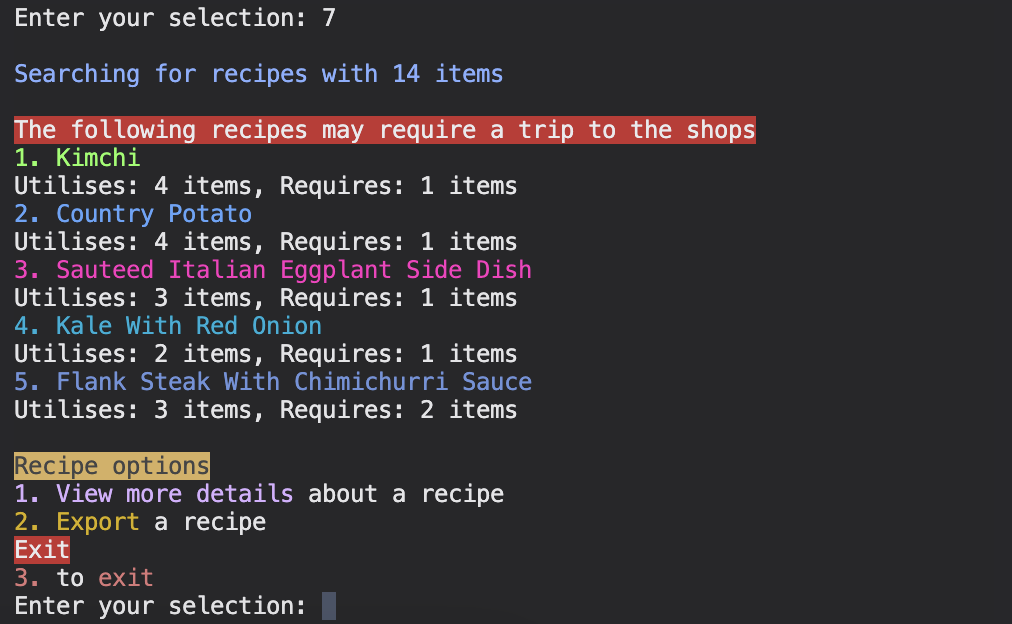
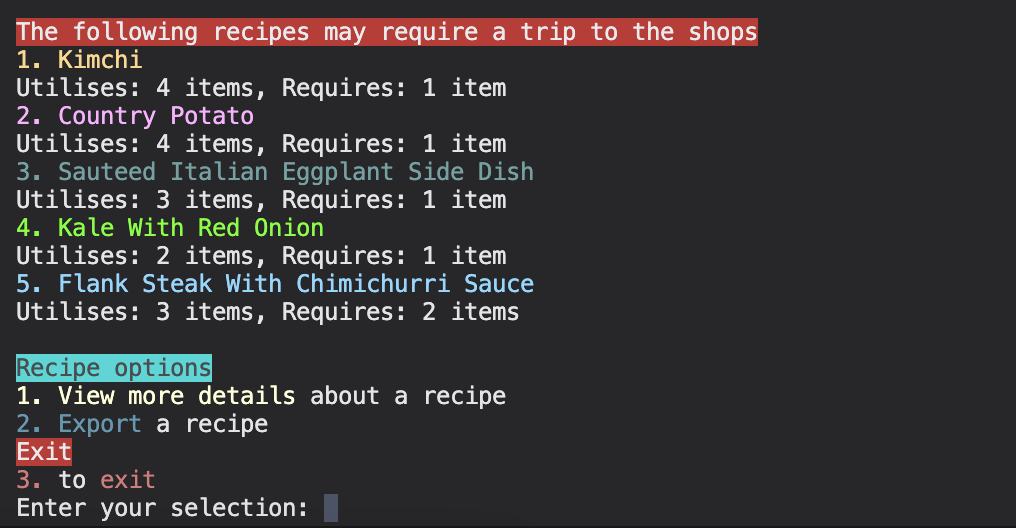
edits to readme

Changed region(s): [[0.0, 0.0, 0.7658, 1.0]]

diff --git a/src/search_functions.py b/src/search_functions.py
@@ -38,7 +38,7 @@ def get_recipes(ingr_file_name, staple_file_name, staple_setting):
                 print(
                     f'{fg(random.randrange(0,256))}{i}. {recipe["title"]}{attr(0)}')
                 print(
-                    f'Utilises: {recipe["usedIngredientCount"]} items, Requires: {recipe["missedIngredientCount"]} items')
+                    f'Utilises: {recipe["usedIngredientCount"]} item{"s" if recipe["usedIngredientCount"] != 1 else ""}, Requires: {recipe["missedIngredientCount"]} item{"s" if recipe["missedIngredientCount"] != 1 else ""}')
                 time.sleep(0.1)
             else:
                 if x == 0:
@@ -49,7 +49,7 @@ def get_recipes(ingr_file_name, staple_file_name, staple_setting):
                 print(
                     f'{fg(random.randrange(0,256))}{i}. {recipe["title"]}{attr(0)}')
                 print(
-                    f'Utilises: {recipe["usedIngredientCount"]} items, Requires: {recipe["missedIngredientCount"]} items')
+                    f'Utilises: {recipe["usedIngredientCount"]} item{"s" if recipe["usedIngredientCount"] != 1 else ""}, Requires: {recipe["missedIngredientCount"]} item{"s" if recipe["missedIngredientCount"] != 1 else ""}')
                 time.sleep(0.1)
     elif len(json) == 0:
         print(
